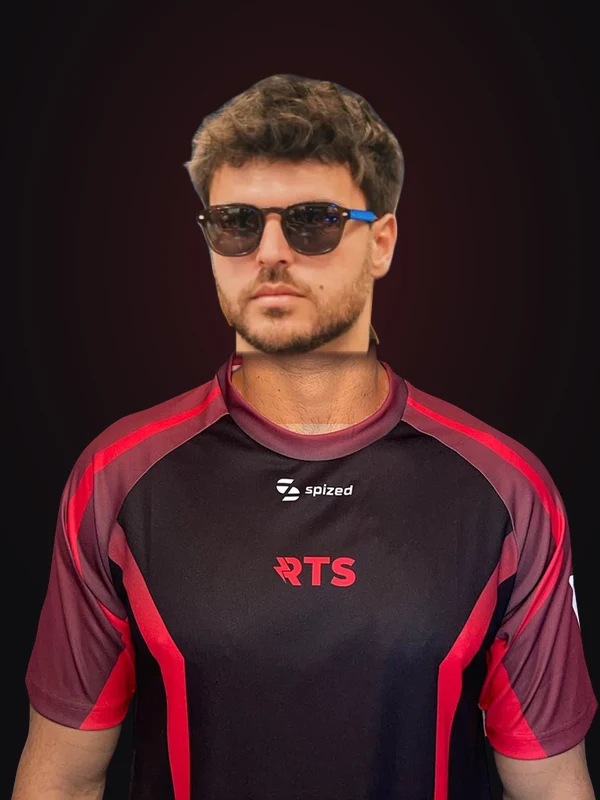
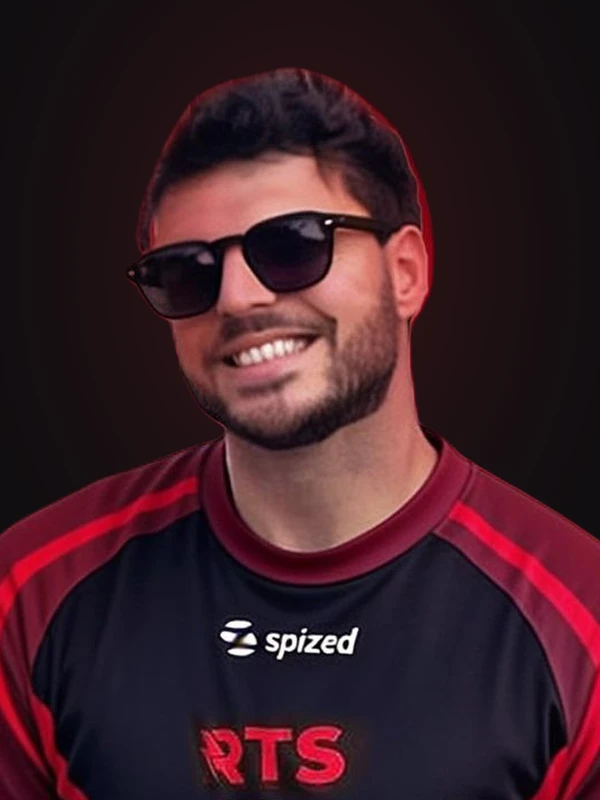
Quentin POTM photo, passerelle steps NL200 to NL1000

diff --git a/index.html b/index.html
@@ -176,7 +176,7 @@
   <h3 class="r-title">Des coachs plus expérimentés</h3>
   <p>Des coachings chaque semaine avec des coachs plus expérimentés, joueurs des plus grosses limites.</p>
   <p class="r-hint">Cliquez sur un coach pour découvrir son parcours.</p>
-  <div class="r-faces"><button class="face" data-person="Alex"><img src="img/equipe-alex.webp?v=2" alt=""><span>Alex</span></button><button class="face" data-person="Adrien"><img src="img/equipe-adrien.webp?v=2" alt=""><span>Adrien</span></button><button class="face" data-person="Quentin"><img src="img/equipe-quentin.webp?v=2" alt=""><span>Quentin</span></button><button class="face" data-person="Alexandre"><img src="img/equipe-alexandre.webp?v=2" alt=""><span>Alexandre</span></button></div>
+  <div class="r-faces"><button class="face" data-person="Alex"><img src="img/equipe-alex.webp?v=2" alt=""><span>Alex</span></button><button class="face" data-person="Adrien"><img src="img/equipe-adrien.webp?v=2" alt=""><span>Adrien</span></button><button class="face" data-person="Quentin"><img src="img/equipe-quentin.webp?v=3" alt=""><span>Quentin</span></button><button class="face" data-person="Alexandre"><img src="img/equipe-alexandre.webp?v=2" alt=""><span>Alexandre</span></button></div>
 </template>
 <template class="room-tpl" data-id="e-ia" data-img="img/fusee/e-ia.webp">
   <p class="r-tag">RTS Elite · IA</p>
@@ -323,7 +323,7 @@ Coach chez RTS, alias « L&#x27;usine à crushers », depuis 2 ans, je m&#x27;en
         <button class="seat coach" data-name="Alexandre" data-kind="coach" data-role="Coach" data-tags="Academy,Elite" data-bio="Issu de la RTS Academy 2025, il est passé de la NL100 à la NL1000 en moins d&#x27;un an, puis jusqu&#x27;à la NL2000. Player of the Month de la RTS Academy.
 
 Il coache l&#x27;Academy face aux réguliers, et il sait exactement par où passent nos joueurs, parce qu&#x27;il y était il y a un an."><img src="img/equipe-alexandre.webp?v=2" alt=""><span class="plate"><b>Alexandre</b><small>Coach</small></span></button>
-        <button class="seat coach" data-name="Quentin" data-video="https://www.youtube.com/shorts/GnLOl1b-P8E" data-video-label="Voir son interview (format court)" data-kind="coach" data-role="Coach" data-tags="Elite" data-bio="Joueur de cash game professionnel et mentor RTS, il rejoint l&#x27;équipe de coachs de la RTS Elite en 2027."><img src="img/equipe-quentin.webp?v=2" alt=""><span class="plate"><b>Quentin</b><small>Coach</small></span></button>
+        <button class="seat coach" data-name="Quentin" data-video="https://www.youtube.com/shorts/GnLOl1b-P8E" data-video-label="Voir son interview (format court)" data-kind="coach" data-role="Coach" data-tags="Elite" data-bio="Joueur de cash game professionnel et mentor RTS, il rejoint l&#x27;équipe de coachs de la RTS Elite en 2027."><img src="img/equipe-quentin.webp?v=3" alt=""><span class="plate"><b>Quentin</b><small>Coach</small></span></button>
         <button class="seat mentor" data-name="Anto" data-video="https://www.youtube.com/shorts/nytWY7gYX48" data-video-label="Voir son interview (format court)" data-kind="mentor" data-role="Mentor" data-tags="Academy" data-bio="Issu de la RTS Academy 2024, il est passé de la NL100 à la NL1000 en moins d&#x27;un an. Il joue aujourd&#x27;hui dans la RTS Elite.
 
 Mentor : il accompagne un joueur de la RTS Academy tout au long de la saison, et l&#x27;aide à atteindre ce qu&#x27;il a lui-même déjà accompli."><img src="img/equipe-anthony.webp?v=2" alt=""><span class="plate"><b>Anto</b><small>Mentor</small></span></button>
